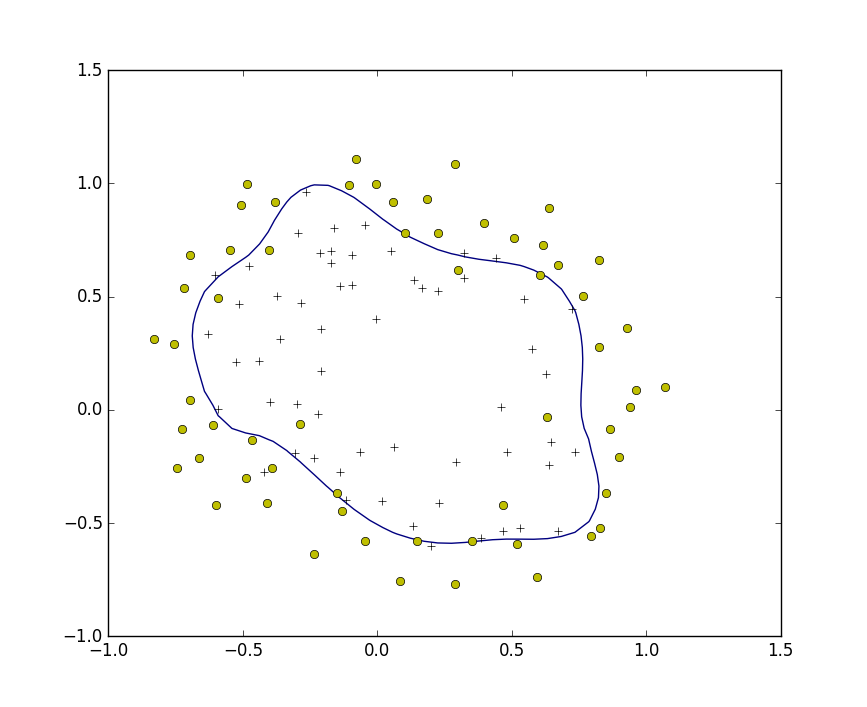
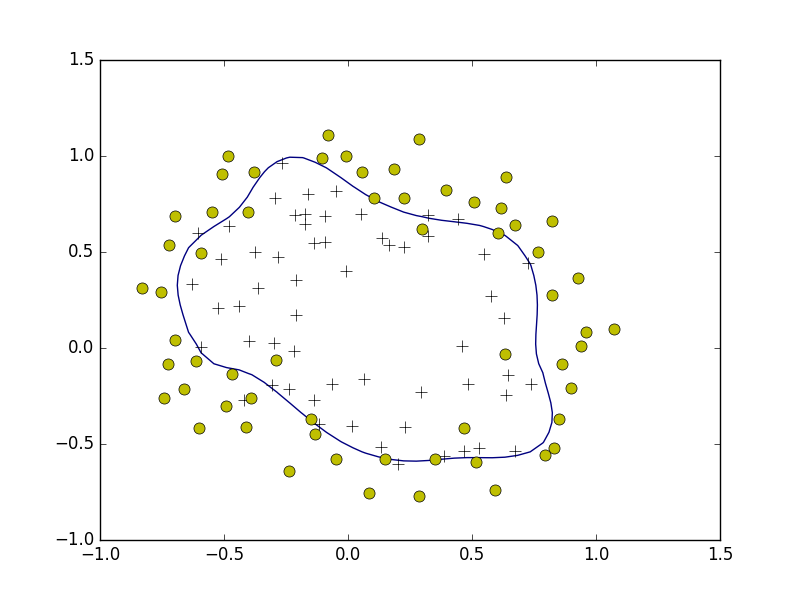
upd ex 2

diff --git a/machine-learning-ex2/ex2-python/ex2-reg.py b/machine-learning-ex2/ex2-python/ex2-reg.py
@@ -51,8 +51,8 @@ def plotDecisionBoundary(theta, X, y, lam):
     # Find Indices of Positive and Negative Examples
     pos = np.where(y==1)
     neg = np.where(y==0)
-    plt.plot(X[pos, 1], X[pos, 2], 'k+')
-    plt.plot(X[neg, 1], X[neg, 2], 'yo')
+    plt.plot(X[pos, 1], X[pos, 2], 'k+', ms=8)
+    plt.plot(X[neg, 1], X[neg, 2], 'yo', ms=8)
     
     if(X.shape[1] <= 3):
         #Only need 2 points to define a line, so choose two endpoints
